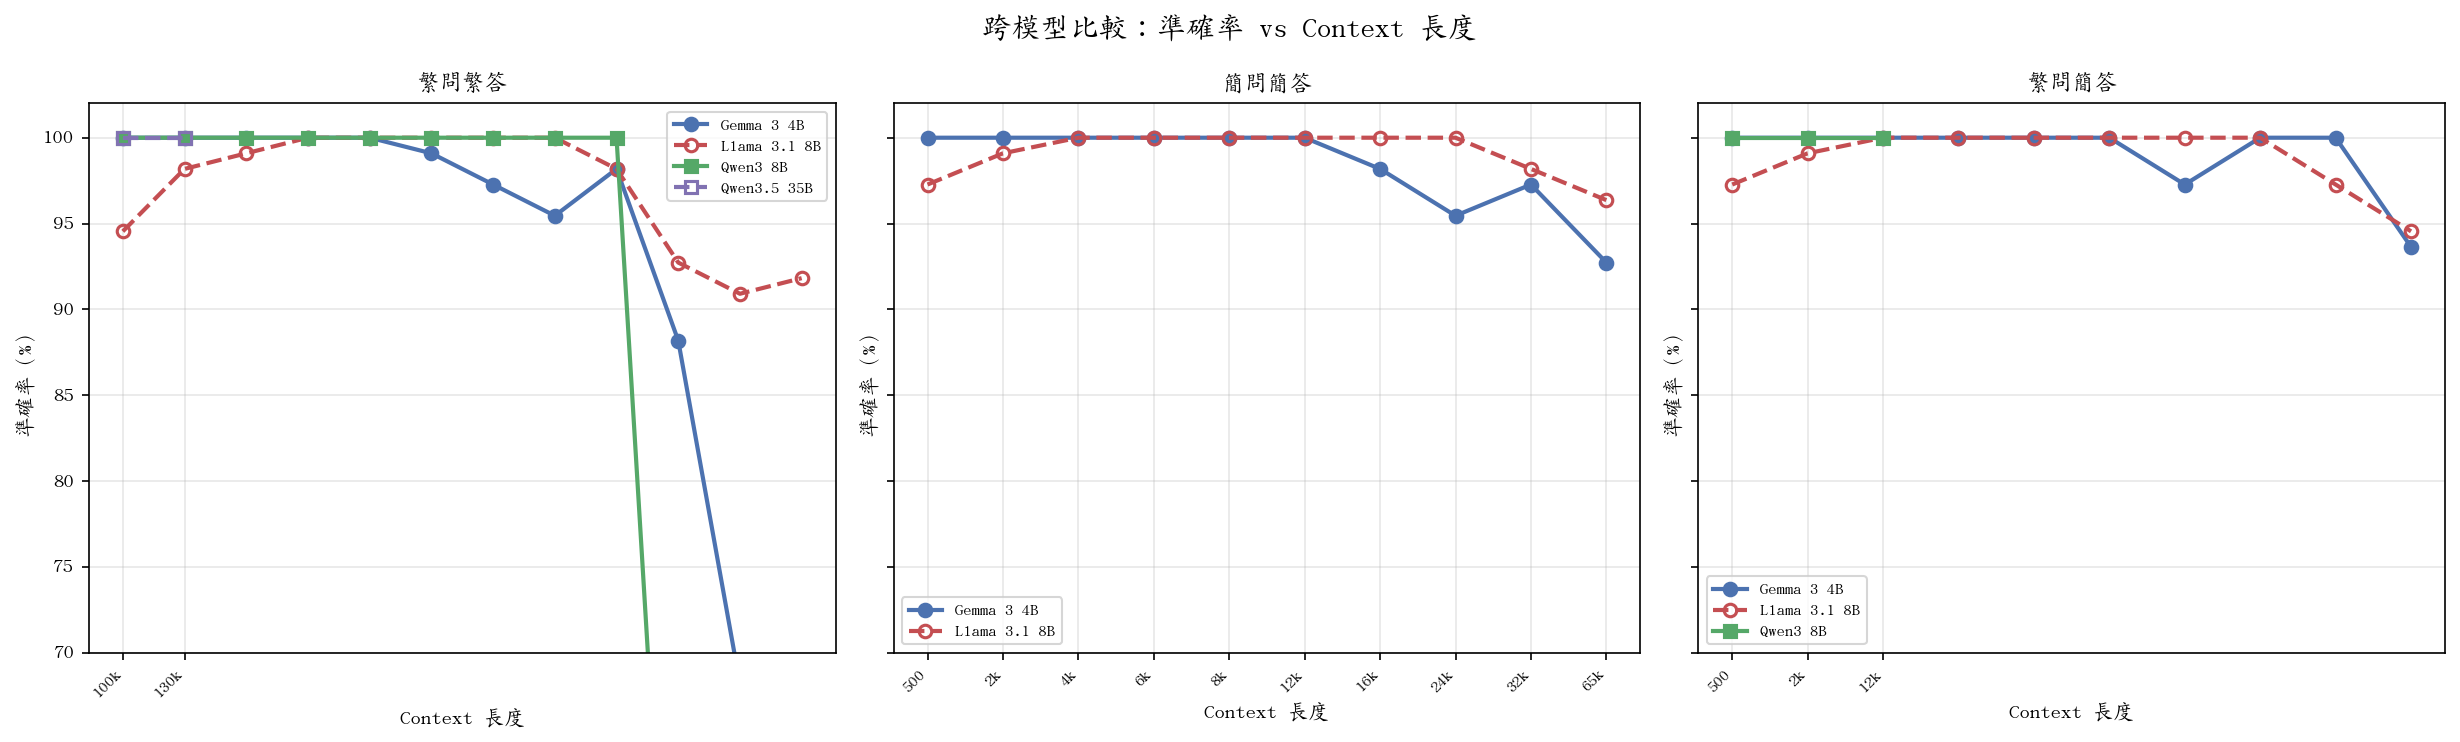
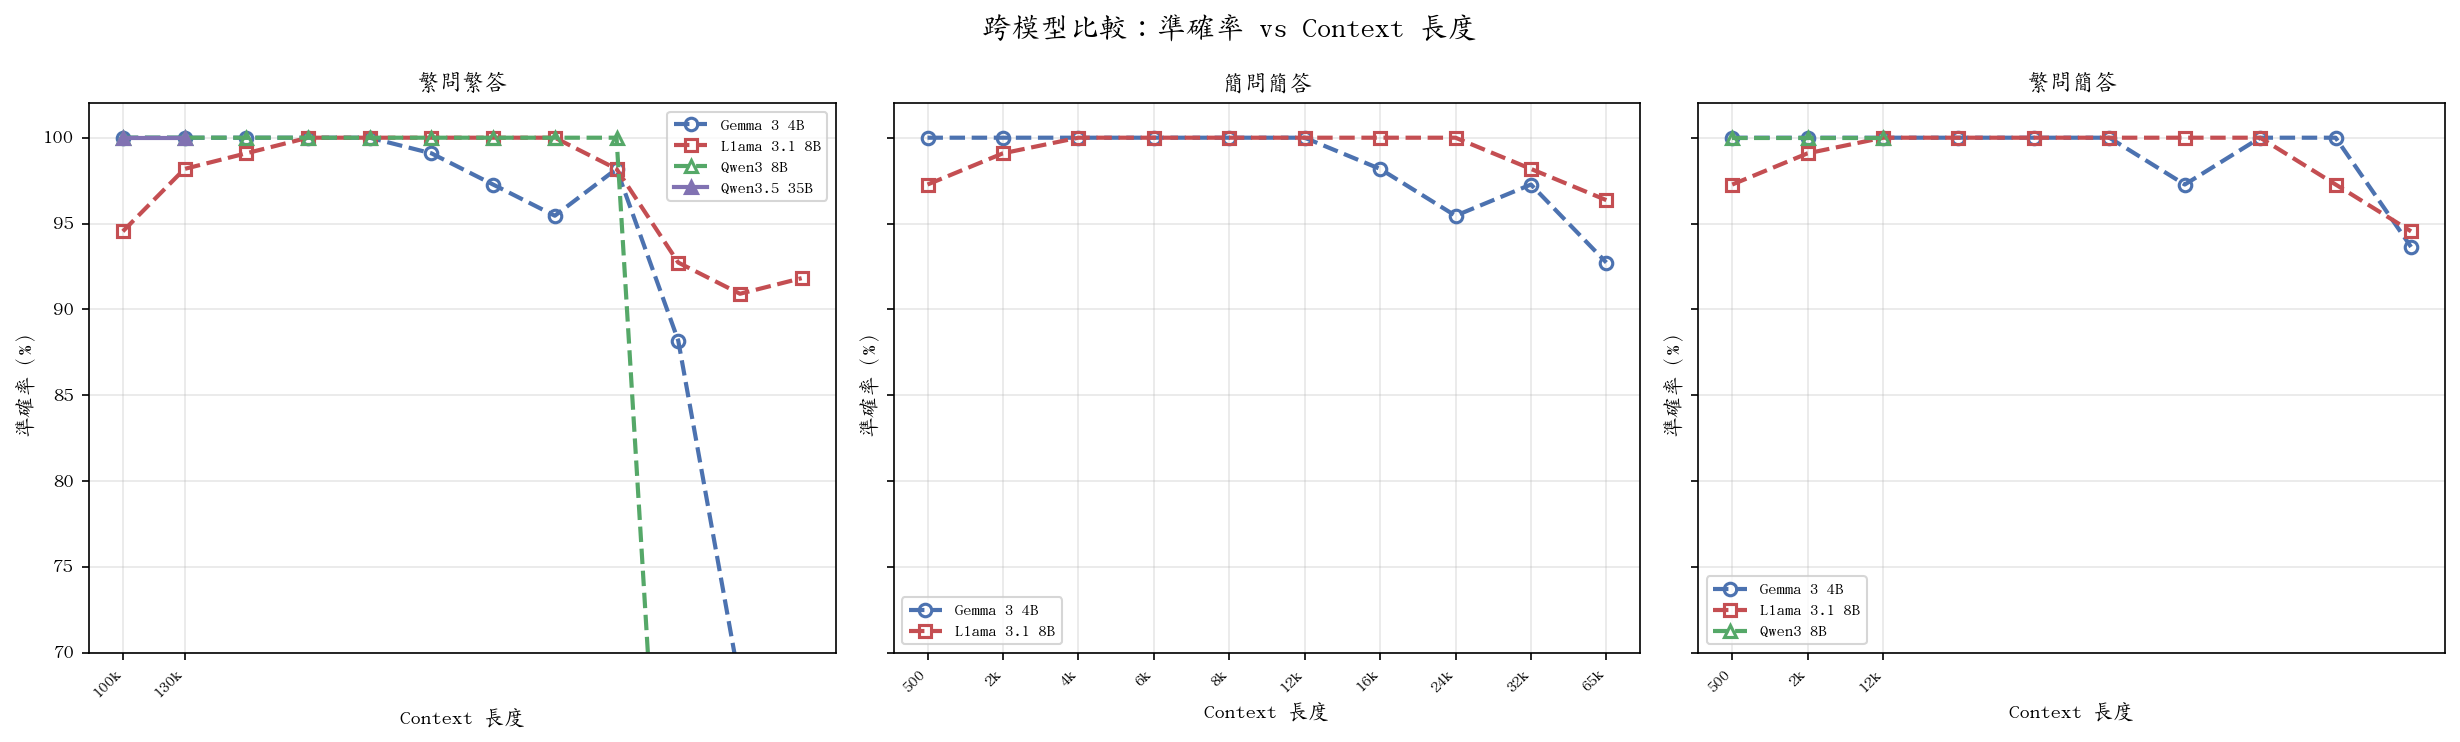
圖表 marker：同家族同符號，小參數空心/大參數實心
Gemma: ○空心圓(4B) / ●實心圓(27B)
Llama: □空心正方形(8B) / ■實心正方形(70B)
Qwen:  △空心上三角(8B) / ▲實心上三角(35B)

[email redacted]

Changed region(s): [[0.1545, 0.186, 0.1854, 0.217]]

diff --git a/scripts/05_plot_results.py b/scripts/05_plot_results.py
@@ -81,12 +81,15 @@ MODEL_COLORS = {
     "llama3.3:70b":"#64B5CD",
 }
 MODEL_MARKERS = {
-    "gemma3:4b":    dict(marker="o",  fillstyle="full",  linestyle="-"),
-    "llama3.1:8b":  dict(marker="o",  fillstyle="none",  linestyle="--"),
-    "qwen3:8b":     dict(marker="s",  fillstyle="full",  linestyle="-"),
-    "qwen3.5:35b":  dict(marker="s",  fillstyle="none",  linestyle="--"),
-    "gemma3:27b":   dict(marker="^",  fillstyle="full",  linestyle="-."),
-    "llama3.3:70b": dict(marker="^",  fillstyle="none",  linestyle="-."),
+    # Gemma 家族：圓形，小=空心，大=實心
+    "gemma3:4b":    dict(marker="o",  fillstyle="none",  linestyle="--"),
+    "gemma3:27b":   dict(marker="o",  fillstyle="full",  linestyle="-"),
+    # Llama 家族：正方形，小=空心，大=實心
+    "llama3.1:8b":  dict(marker="s",  fillstyle="none",  linestyle="--"),
+    "llama3.3:70b": dict(marker="s",  fillstyle="full",  linestyle="-"),
+    # Qwen 家族：上三角，小=空心，大=實心
+    "qwen3:8b":     dict(marker="^",  fillstyle="none",  linestyle="--"),
+    "qwen3.5:35b":  dict(marker="^",  fillstyle="full",  linestyle="-"),
 }
 MODEL_LABELS = {
     "gemma3:4b": "Gemma 3 4B", "llama3.1:8b": "Llama 3.1 8B",